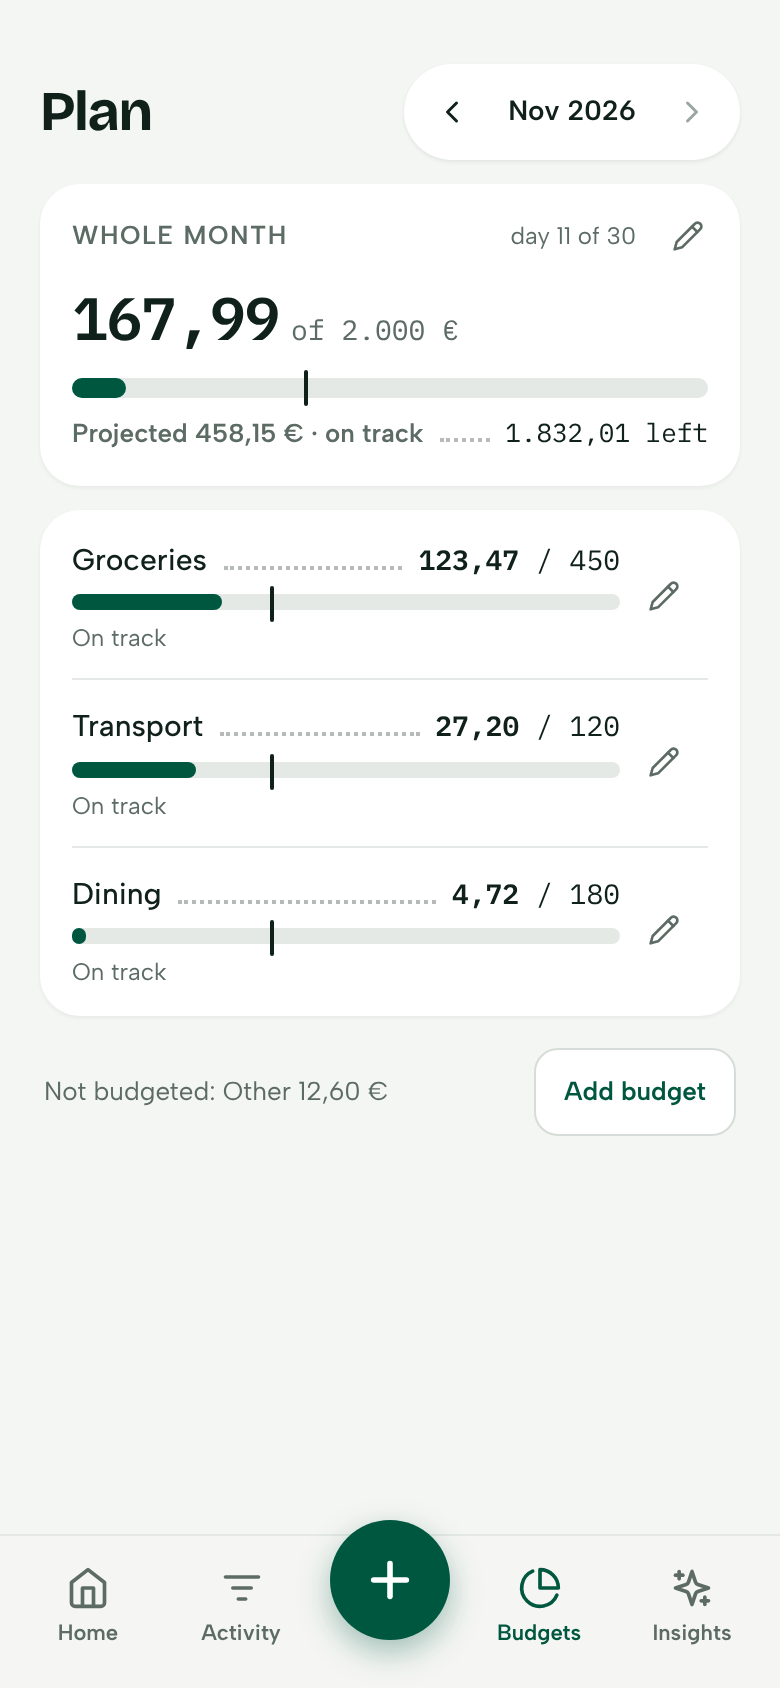
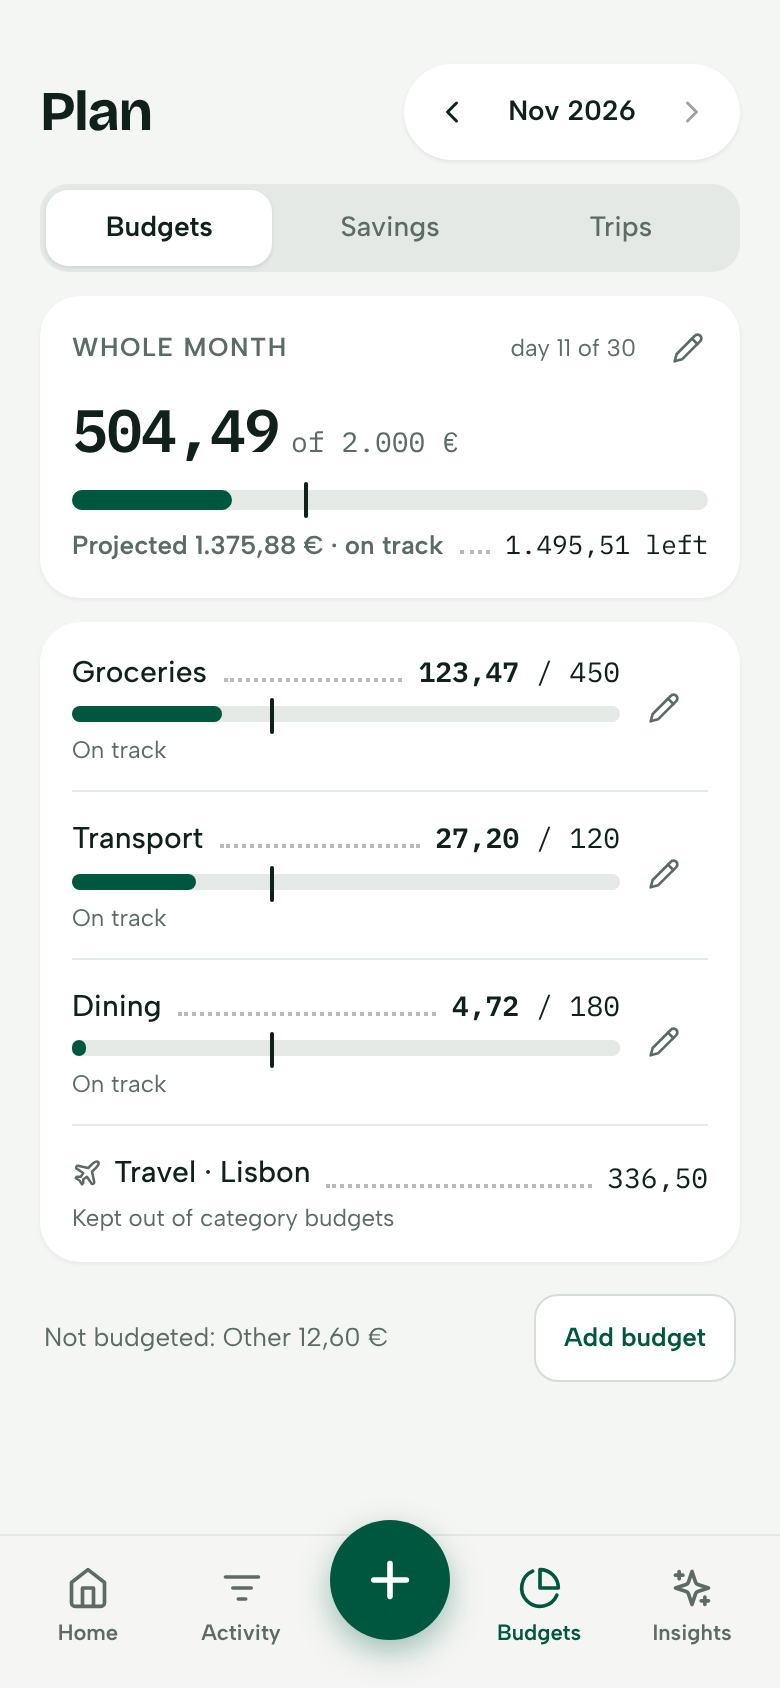
Docs: screenshots for Home, Budgets, Savings, Trip, Insights, import preview; follow-ups for phases 4-7
Claude-Session: https://claude.ai/code/session_01JQWB2CsxYiXRBnokm58Y8p

diff --git a/docs/IMPROVEMENT_PLAN.md b/docs/IMPROVEMENT_PLAN.md
@@ -469,3 +469,17 @@ Verified: `npm test`, `npm run build`, and Playwright screenshots at 390x844 (li
 - The bottom nav is hidden on `/scan`, `/welcome` and `/receipts/:id` (full-screen flows with thumb-zone actions). The undo toast sits at `bottom-28` and can overlap the Save button on `/scan`.
 - The virtual list in Activity positions rows with `position: absolute` (the standard @tanstack/react-virtual pattern); everything else uses flex/grid.
 - `mappers.test.js` has no explicit `imagePath`/`extraction` round-trip case (the fields are in the mapper list).
+
+### Follow-ups from the Phase 4-7 UI implementer (P4-T3/T1/T4/T7/T6, P5-T4, P6-T3, P7-T1, toast fix, bundle)
+
+Verified: `npm test` (618 tests), `npm run build`, Playwright screenshots at 390x844 light and dark in `docs/screenshots/` (`scripts/screenshots/{plan,trip,home,insights,import}.mjs`, shared demo data in `lib.mjs`). **Not verified** (no live backend or AI keys here): a real `/api/insights` or `/api/chat` answer (the endpoints are exercised with mocked fetch; the Insights screenshot shows the "couldn't write the summary" state because there is no Supabase session locally), writes of budgets/goals/trip columns to production Supabase, and a real Revolut/PostePay export.
+
+- The optional monthly savings target has no column: it is stored in the synced `user_layouts.layout.prefs.savingsTarget` (the dashboard widget layout that used to live there is gone). Move it to `settings` with a migration when convenient.
+- Budgets: "copy forward" writes one row per active budget on the first visit of a month (after the first sync). Two devices opening the new month at the same moment could both insert; the unique `(user_id, category, starts_on)` index then parks one insert as failed in the outbox. Category rows link to Activity filtered by category and month, which still includes trip spend (the bar does not).
+- The Plan tab is labelled "Savings" (three segments do not fit "Savings & accounts" at 390 px).
+- Trips: auto-attach covers Quick Add, the scan review (also the share-to-app path) and CSV rows. Offline scans (placeholder created in `pendingScans`) and recurring/planned copies are not attached to the active trip. `GroupsPage` still lists trips as ordinary groups.
+- Chat/insights: the model's `suggestedAction` category must match a known category name, otherwise the Add budget sheet opens without a preselected category. The chat thread lives in sessionStorage only.
+- CSV import: PostePay columns are still detected by name (no sample export). The preview renders the first 300 rows (all are imported). Inbound transfer rows (`TOPUP`, `EXCHANGE`) become transfers into the chosen account; the other leg is not created. Merge fills the account and `importRef` only; date and category of the scanned receipt win.
+- Unused after this work and safe to delete: i18n namespaces `comingNext.*` and `dashboard.*`, `Sidebar`-era legacy gray styling in Settings, `src/components/common/EmptyState.jsx` users.
+- Bundle: entry chunk 1272 kB -> 209 kB (gzip 386 -> 66 kB). `vendor` (react, router, query, dexie, zustand) 324 kB and `vendor-supabase` 171 kB still load on first paint; supabase-js could be loaded lazily behind the auth/sync boot, and `date-fns` (~100 kB source) is only used for two helpers. Non-English language packs load on demand; `main.jsx` waits at most 1.5 s for the persisted language pack before the first render.
+- Home no longer has a widget customizer; `user_layouts` rows written by the old customizer are ignored (the `prefs` key is added beside them).
